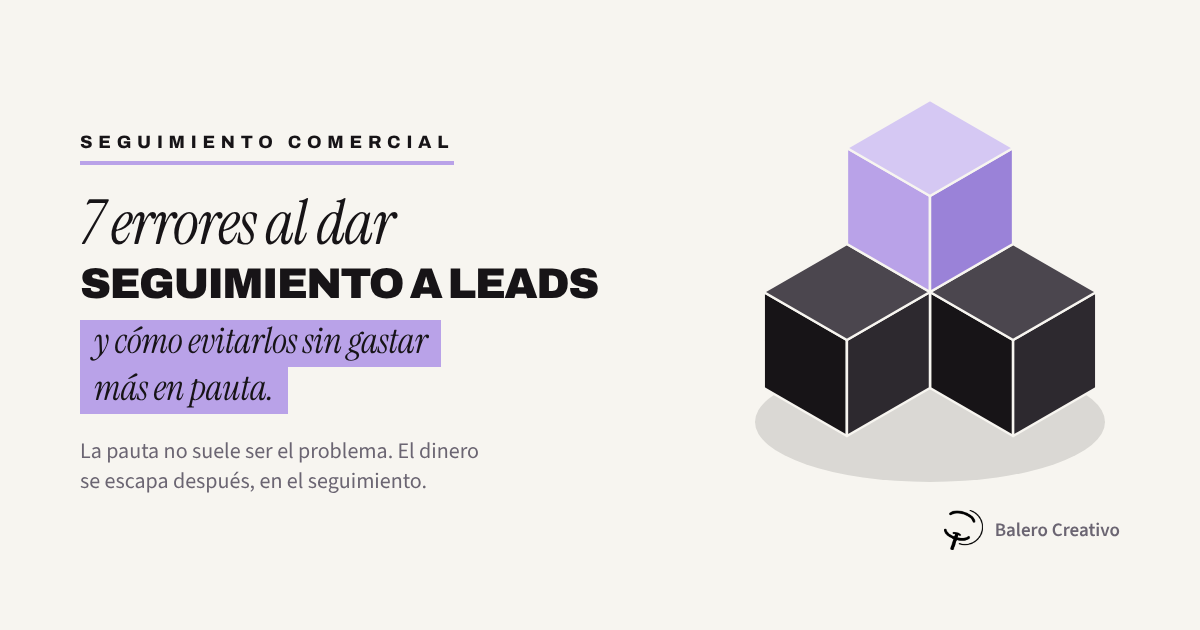
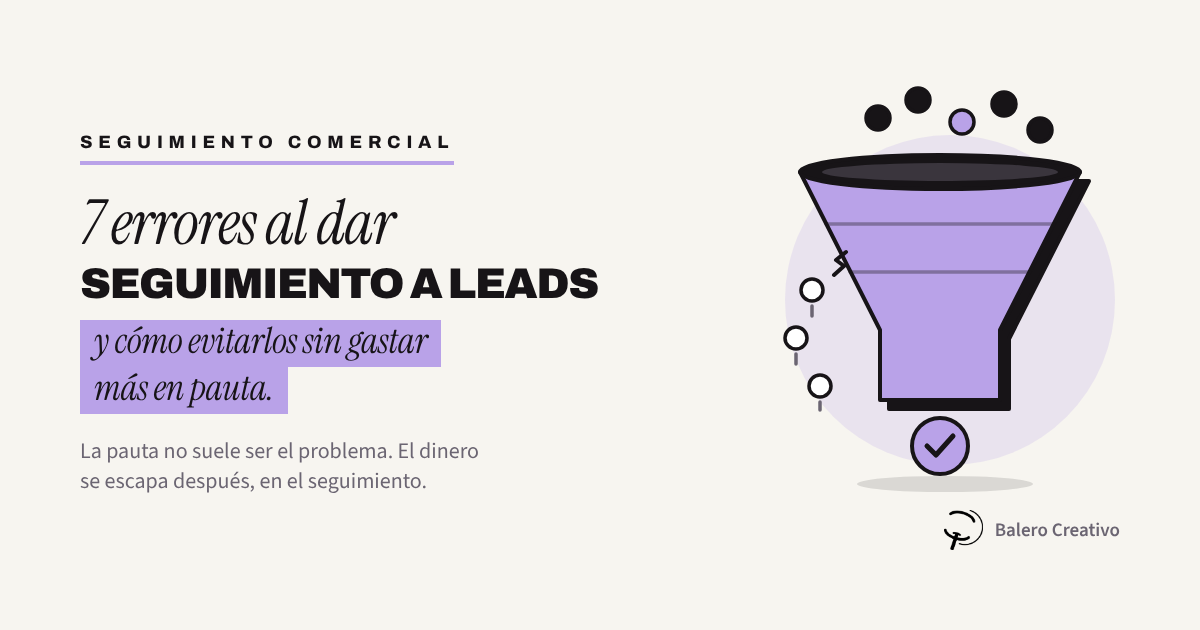
Errores seguimiento image: replace cubes with leaky funnel illustration
Claude-Session: https://claude.ai/code/session_01NTbbmrkatfc9dT5fY1rn6A

Changed region(s): [[0.6167, 0.1206, 0.925, 0.7841]]

diff --git a/blog-images/errores-seguimiento-leads-1200x630.html b/blog-images/errores-seguimiento-leads-1200x630.html
@@ -26,7 +26,7 @@ h1 .hl span+span{margin-top:4px}
     <h1><span class="a">7 errores al dar</span><span class="b">seguimiento a leads</span><span class="hl"><span>y cómo evitarlos sin gastar</span><br><span>más en pauta.</span></span></h1>
     <p class="sub">La pauta no suele ser el problema. El dinero se escapa después, en el seguimiento.</p>
   </div>
-  <svg class="blocks" viewBox="0 0 1200 630" width="1200" height="630" xmlns="http://www.w3.org/2000/svg"><ellipse cx="930" cy="422" rx="175" ry="60" fill="#171417" opacity=".13"/><g transform="translate(930.0 340.0)"><polygon points="-83.1,-96.0 0.0,-48.0 0.0,48.0 -83.1,0.0" fill="#171417" stroke="#F7F5F0" stroke-width="2.5" stroke-linejoin="round"/><polygon points="83.1,-96.0 0.0,-48.0 0.0,48.0 83.1,0.0" fill="#2D292F" stroke="#F7F5F0" stroke-width="2.5" stroke-linejoin="round"/><polygon points="0.0,-144.0 83.1,-96.0 0.0,-48.0 -83.1,-96.0" fill="#4B464E" stroke="#F7F5F0" stroke-width="2.5" stroke-linejoin="round"/><polygon points="0.0,-48.0 83.1,0.0 83.1,96.0 0.0,48.0" fill="#171417" stroke="#F7F5F0" stroke-width="2.5" stroke-linejoin="round"/><polygon points="166.3,-48.0 83.1,0.0 83.1,96.0 166.3,48.0" fill="#2D292F" stroke="#F7F5F0" stroke-width="2.5" stroke-linejoin="round"/><polygon points="83.1,-96.0 166.3,-48.0 83.1,0.0 0.0,-48.0" fill="#4B464E" stroke="#F7F5F0" stroke-width="2.5" stroke-linejoin="round"/><polygon points="-166.3,-48.0 -83.1,0.0 -83.1,96.0 -166.3,48.0" fill="#171417" stroke="#F7F5F0" stroke-width="2.5" stroke-linejoin="round"/><polygon points="0.0,-48.0 -83.1,0.0 -83.1,96.0 0.0,48.0" fill="#2D292F" stroke="#F7F5F0" stroke-width="2.5" stroke-linejoin="round"/><polygon points="-83.1,-96.0 0.0,-48.0 -83.1,0.0 -166.3,-48.0" fill="#4B464E" stroke="#F7F5F0" stroke-width="2.5" stroke-linejoin="round"/><polygon points="-83.1,-192.0 0.0,-144.0 0.0,-48.0 -83.1,-96.0" fill="#B9A2E8" stroke="#F7F5F0" stroke-width="2.5" stroke-linejoin="round"/><polygon points="83.1,-192.0 0.0,-144.0 0.0,-48.0 83.1,-96.0" fill="#9A82D8" stroke="#F7F5F0" stroke-width="2.5" stroke-linejoin="round"/><polygon points="0.0,-240.0 83.1,-192.0 0.0,-144.0 -83.1,-192.0" fill="#D5C8F3" stroke="#F7F5F0" stroke-width="2.5" stroke-linejoin="round"/></g></svg>
+  <svg class="blocks" viewBox="0 0 1200 630" width="1200" height="630" xmlns="http://www.w3.org/2000/svg"><g><circle cx="950" cy="300" r="165" fill="#B9A2E8" opacity=".22"/><ellipse cx="945" cy="484" rx="88" ry="8" fill="#171417" opacity=".13"/><path d="M800 172 H1080 L1000 330 V400 H880 V330 Z" fill="#171417" transform="translate(9 9)" stroke="#171417" stroke-width="4" stroke-linejoin="round"/><path d="M800 172 H1080 L1000 330 V400 H880 V330 Z" fill="#B9A2E8" stroke="#171417" stroke-width="4" stroke-linejoin="round"/><path d="M826 224 H1054 M850 272 H1030" stroke="#171417" stroke-width="3.5" stroke-linecap="round" opacity=".35"/><ellipse cx="940" cy="172" rx="140" ry="17" fill="#171417" stroke="#171417" stroke-width="4"/><ellipse cx="940" cy="172" rx="118" ry="9" fill="#3A353D"/><circle cx="878" cy="118" r="12" fill="#171417" stroke="#171417" stroke-width="3.5"/><circle cx="918" cy="100" r="12" fill="#171417" stroke="#171417" stroke-width="3.5"/><circle cx="962" cy="122" r="12" fill="#B9A2E8" stroke="#171417" stroke-width="3.5"/><circle cx="1004" cy="104" r="12" fill="#171417" stroke="#171417" stroke-width="3.5"/><circle cx="1040" cy="130" r="12" fill="#171417" stroke="#171417" stroke-width="3.5"/><path d="M846 252 l-10 8 l8 6 l-10 9" fill="none" stroke="#171417" stroke-width="4" stroke-linecap="round" stroke-linejoin="round"/><circle cx="812" cy="290" r="11" fill="#fff" stroke="#171417" stroke-width="3.5"/><circle cx="796" cy="338" r="11" fill="#fff" stroke="#171417" stroke-width="3.5"/><circle cx="820" cy="386" r="11" fill="#fff" stroke="#171417" stroke-width="3.5"/><path d="M812 306 v10 M796 354 v10 M820 402 v8" stroke="#6B6572" stroke-width="3.5" stroke-linecap="round"/><circle cx="940" cy="446" r="28" fill="#B9A2E8" stroke="#171417" stroke-width="4"/><path d="M927 446 l9 9 l17 -19" fill="none" stroke="#171417" stroke-width="5" stroke-linecap="round" stroke-linejoin="round"/></g></svg>
   <div class="brand"><img src="assets/balero-isotipo-negro.png" alt=""><span>Balero Creativo</span></div>
 </div>
 </body></html>
